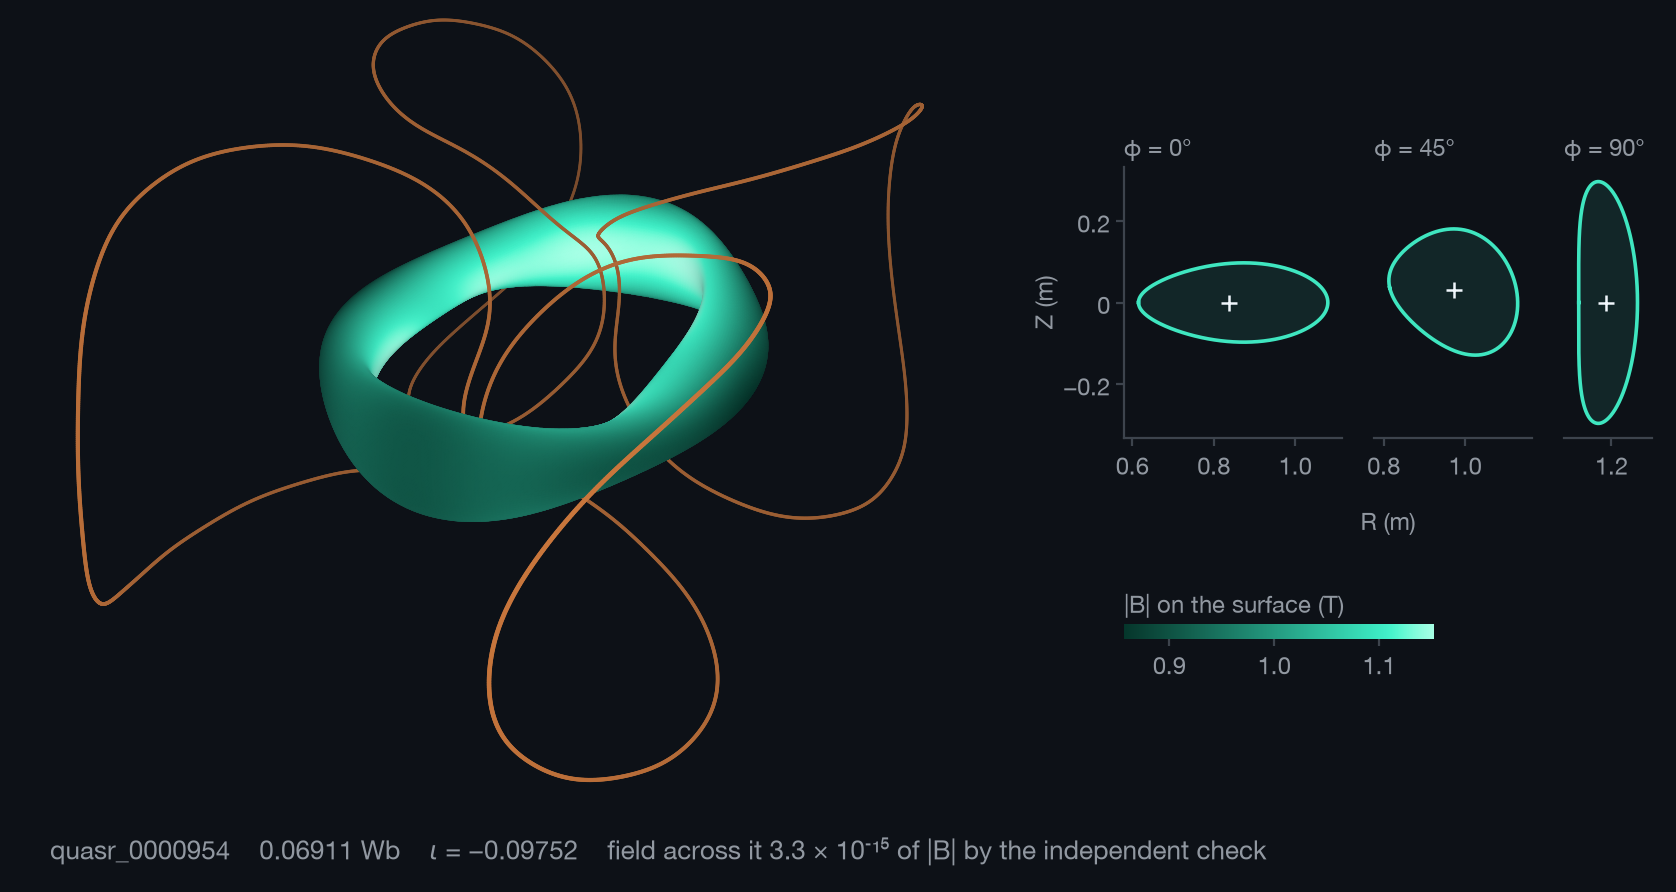
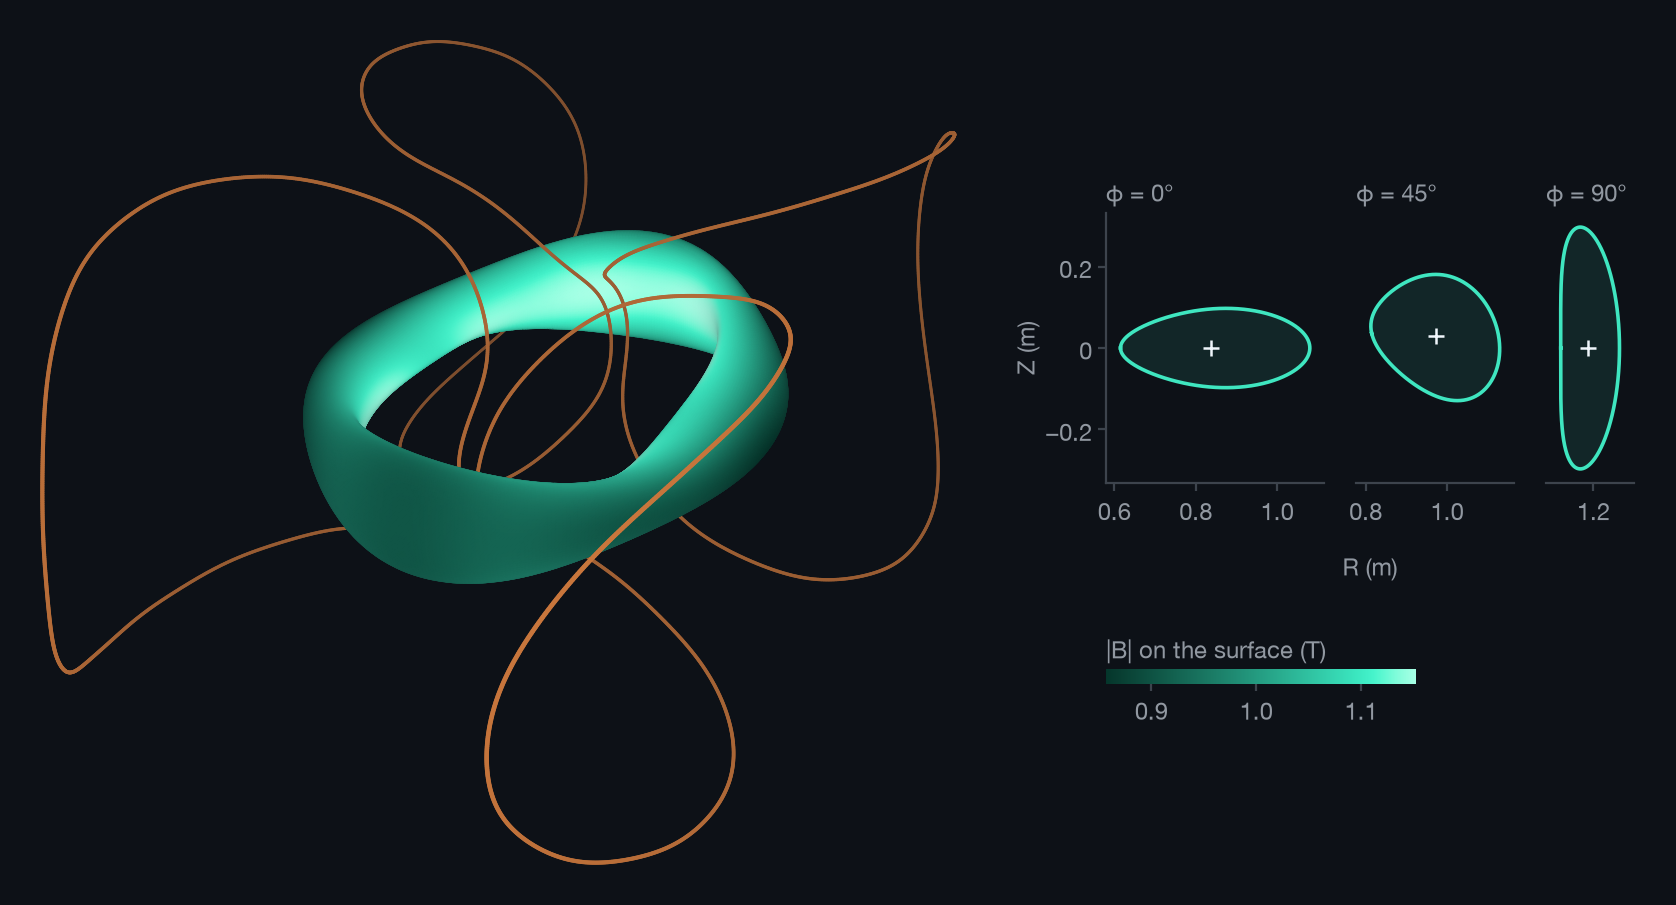
Front page picture as s.plot now draws it: the verified surface of QUASR 954 and nothing written under it

diff --git a/README.md b/README.md
@@ -102,7 +102,7 @@ torux.many(files, table="answers.csv")        # a folder of designs, one row eac
 <p align="center">
   <picture>
     <source media="(prefers-color-scheme: dark)" srcset="visuals/plot-dark.png">
-    <img src="visuals/plot-light.png" width="760" alt="What s.plot draws for the surface above: on the left the flux surface as a green torus, shaded by the strength of the field on it, threaded through its four copper coils. On the right are its cross-sections at three toroidal angles, an ellipse lying flat, a rounded triangle and an ellipse standing upright, and the scale of the field strength, about 0.9 to 1.1 tesla.">
+    <img src="visuals/plot-light.png" width="760" alt="What s.plot draws for the surface above: on the left the verified flux surface as a green torus, shaded by the strength of the field on it, threaded through its four copper coils. On the right are its cross-sections at three toroidal angles, an ellipse lying flat, a rounded triangle and an ellipse standing upright, and the scale of the field strength, about 0.9 to 1.1 tesla.">
   </picture>
 </p>
 
